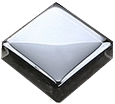
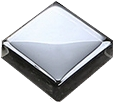
Fullscreen background

diff --git a/index.html b/index.html
@@ -3,10 +3,35 @@
   <head>
     <meta charset="utf-8"/>
     <title>Bounce tile demo</title>
+    <style>
+      body {
+         background-image: url("src/img/gamebg.jpg");
+         background-size: cover;
+      }
+      html, body {
+          height: 99%;
+      }
+      .Container {
+          text-align: center;
+          height: 100%;
+      }
+      .Container:before {
+          content: '';
+          height: 100%;
+          display: inline-block;
+          vertical-align: middle;
+      }
+      .Content {
+          display: inline-block;
+          vertical-align: middle;
+      }      
+    </style>
   </head>
   <body>
-    <div id="Content">
-  	  <canvas id="htmlcanvas" width="1600" height="800" tabindex="0"></canvas>
+    <div class="Container">
+      <div class="Content">
+        <canvas id="htmlcanvas" width="1600" height="800" tabindex="0"></canvas>
+      </div>
     </div>
     <script type="text/javascript" src="src/underscore-min.js"></script>
     <script type="text/javascript" src="src/preloader.js"></script>    

diff --git a/src/game.js b/src/game.js
@@ -61,10 +61,10 @@ function drawImg(key, x, y) {
 }
 
 function drawEmptyScreen() {
-    canvas.fillStyle = "black";
+    canvas.fillStyle = "#1D3505";
     canvas.fillRect(0, 0, canvasW, canvasH);
-    canvas.fillStyle = "white";
-    canvas.fillRect(1, 1, canvasW-2, canvasH-2);
+    canvas.fillStyle = 'transparent';
+    canvas.clearRect(1, 1, canvasW-2, canvasH-2);
 }
 
 function rgb(r, g, b){
